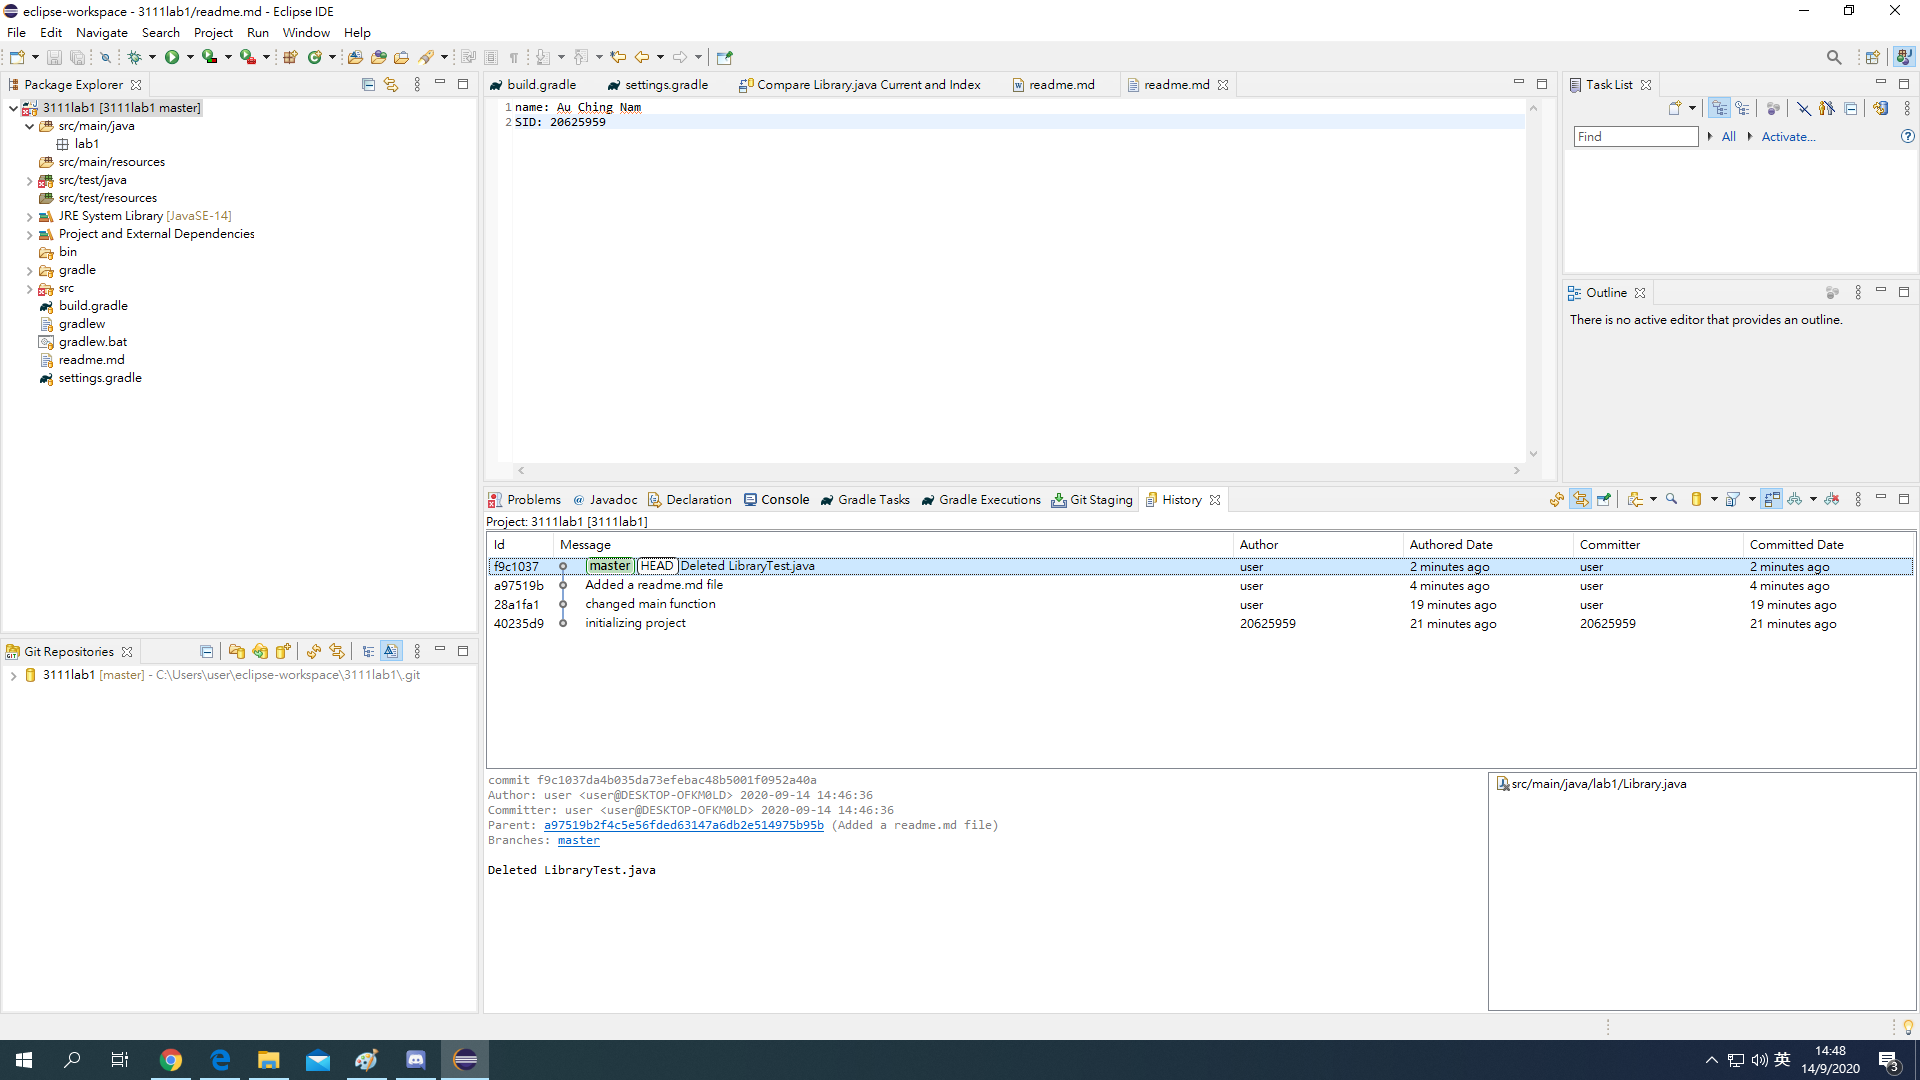
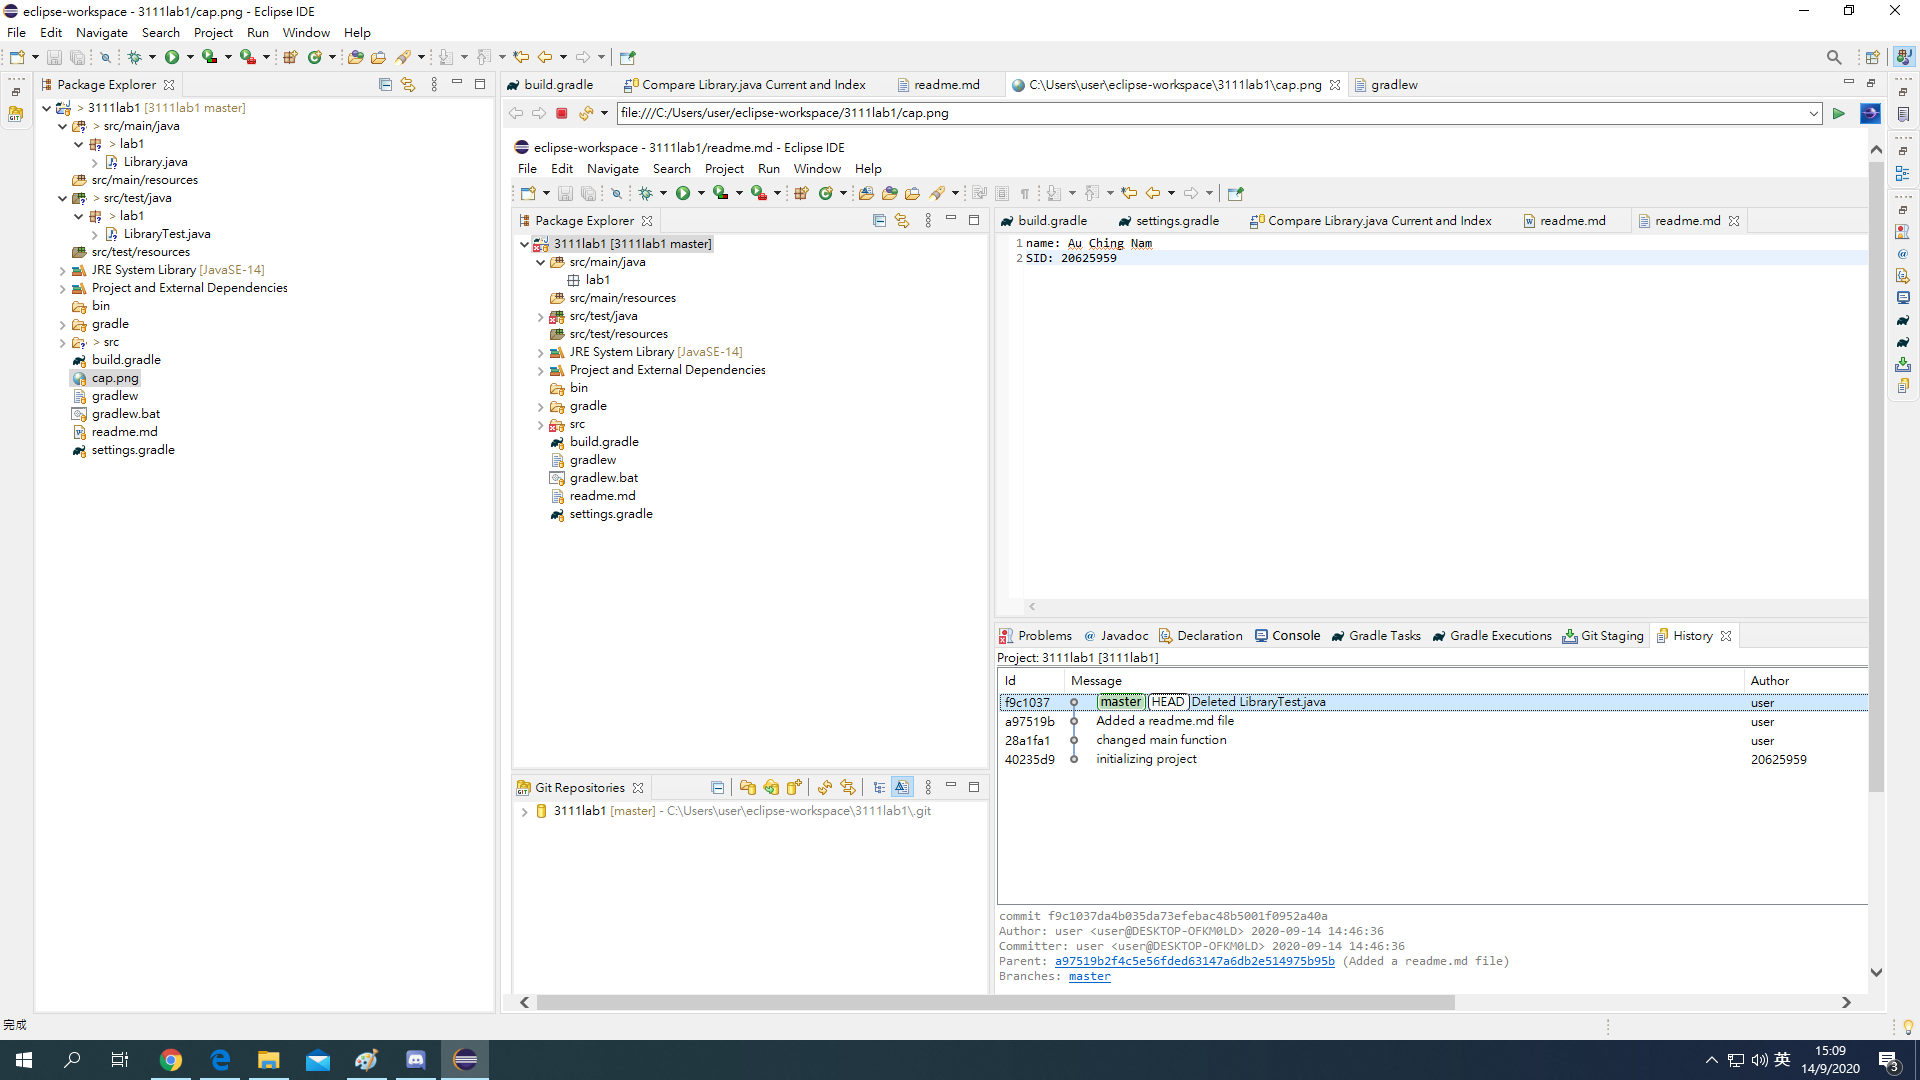
fixed apture img and java files

diff --git a/src/main/java/lab1/Library.java b/src/main/java/lab1/Library.java
@@ -1,0 +1,12 @@
+package lab1;
+
+public class Library {
+	public static void main(String arg[]) {
+		Library lib=new Library();
+		if(lib.someLibraryMethod())System.out.println("testing");
+	}
+	
+    public boolean someLibraryMethod() {
+        return true;
+    }
+}
